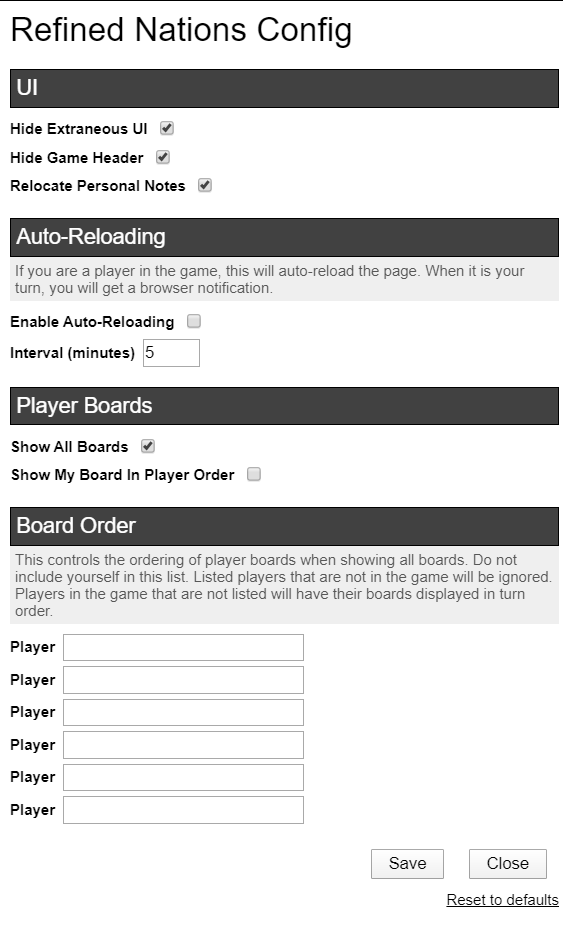
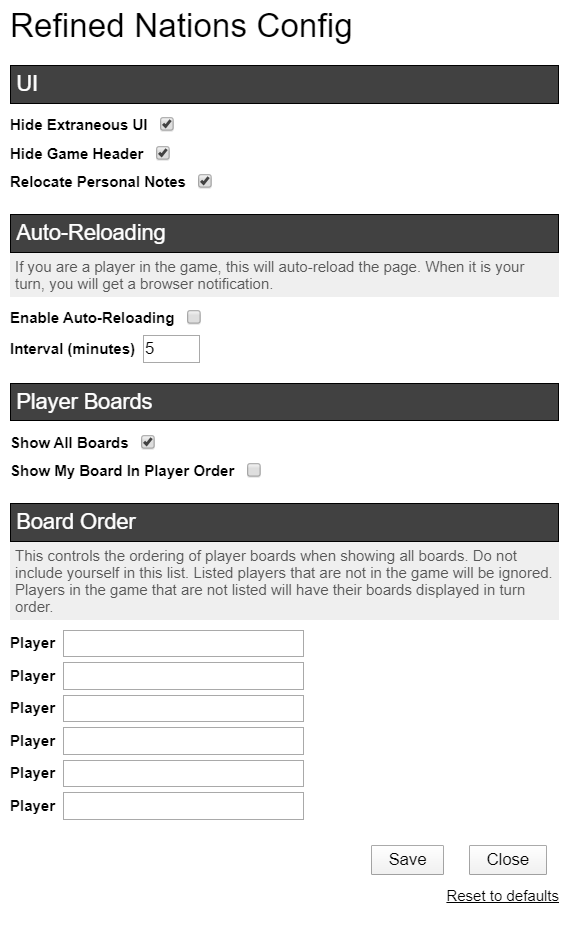
docs: tweak image size

diff --git a/README.md b/README.md
@@ -13,15 +13,15 @@ Its goal is to maximize the amount of information displayed at once.  It will:
 * Adds a "Reload Page" button so you don't have to go back to the Game Manager when you finish your turn
 * Ability to auto-reload page if it's your game, getting notifications when it's your turn (disabled by default)
 
-<img src="images/nations.png" width="600" />
+<img src="images/nations.png" width="600" alt="Example game" />
 
 To configure the script, go to the script's settings:
 
-<img src="images/menu_settings.png" />
+<img src="images/menu_settings.png" width="200" alt="Settings menu option" />
 
-You should get a configuration panel that looks like:
+You should get a settings panel that looks like:
 
-<img src="images/config.png" />
+<img src="images/config.png" width="400" alt="Settings panel" />
 
 This has only been tested in Chrome and Tampermonkey.
 
